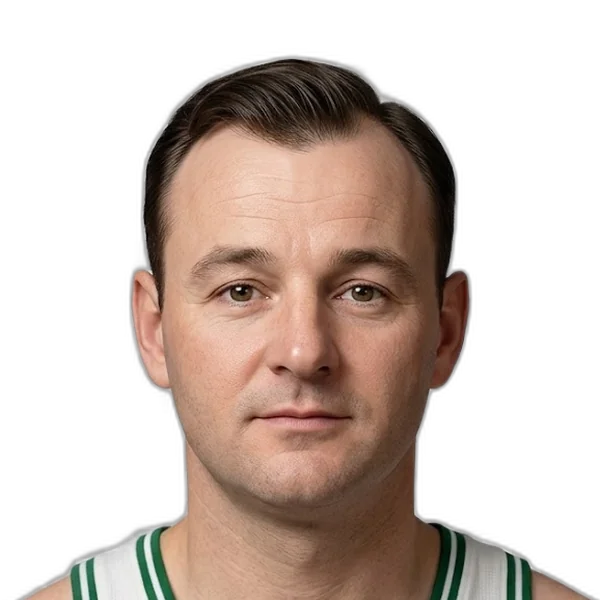
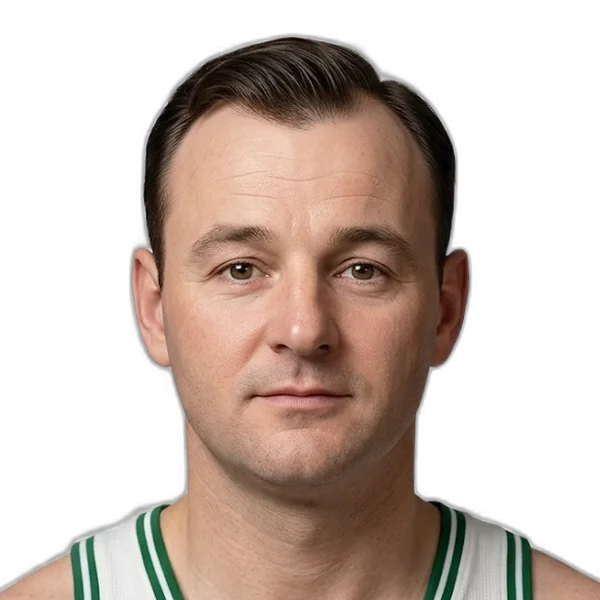
Portrait tool: fixed headroom above the hair
Claude-Session: https://claude.ai/code/session_01MwZ67aepJJhUZJuSBZ7izX

diff --git a/tools/make-portrait.py b/tools/make-portrait.py
@@ -10,7 +10,7 @@ from PIL import Image
 from rembg import remove, new_session
 
 FACE_W = 0.56   # face width as a share of the frame (the existing portraits average 0.56)
-FACE_TOP = 0.26  # top of the face box, as a share of the frame height
+HEAD_GAP = 0.06  # gap above the top of the hair, as a share of the frame height
 SIZE = 600
 
 def face_box(im):
@@ -35,7 +35,10 @@ def main(src, pid):
         x, y, w, h = [int(v) for v in box]
         side = w / FACE_W
         left = x + w / 2 - side / 2
-        top = y - FACE_TOP * side
+        alpha = np.array(cut)[:, :, 3]
+        rows = np.where((alpha > 128).sum(1) > 3)[0]
+        hair = rows[0] if len(rows) else y
+        top = hair - HEAD_GAP * side
         canvas = Image.new('RGBA', (int(side), int(side)), (0, 0, 0, 0))
         canvas.paste(cut, (int(-left), int(-top)))
         crop = canvas
